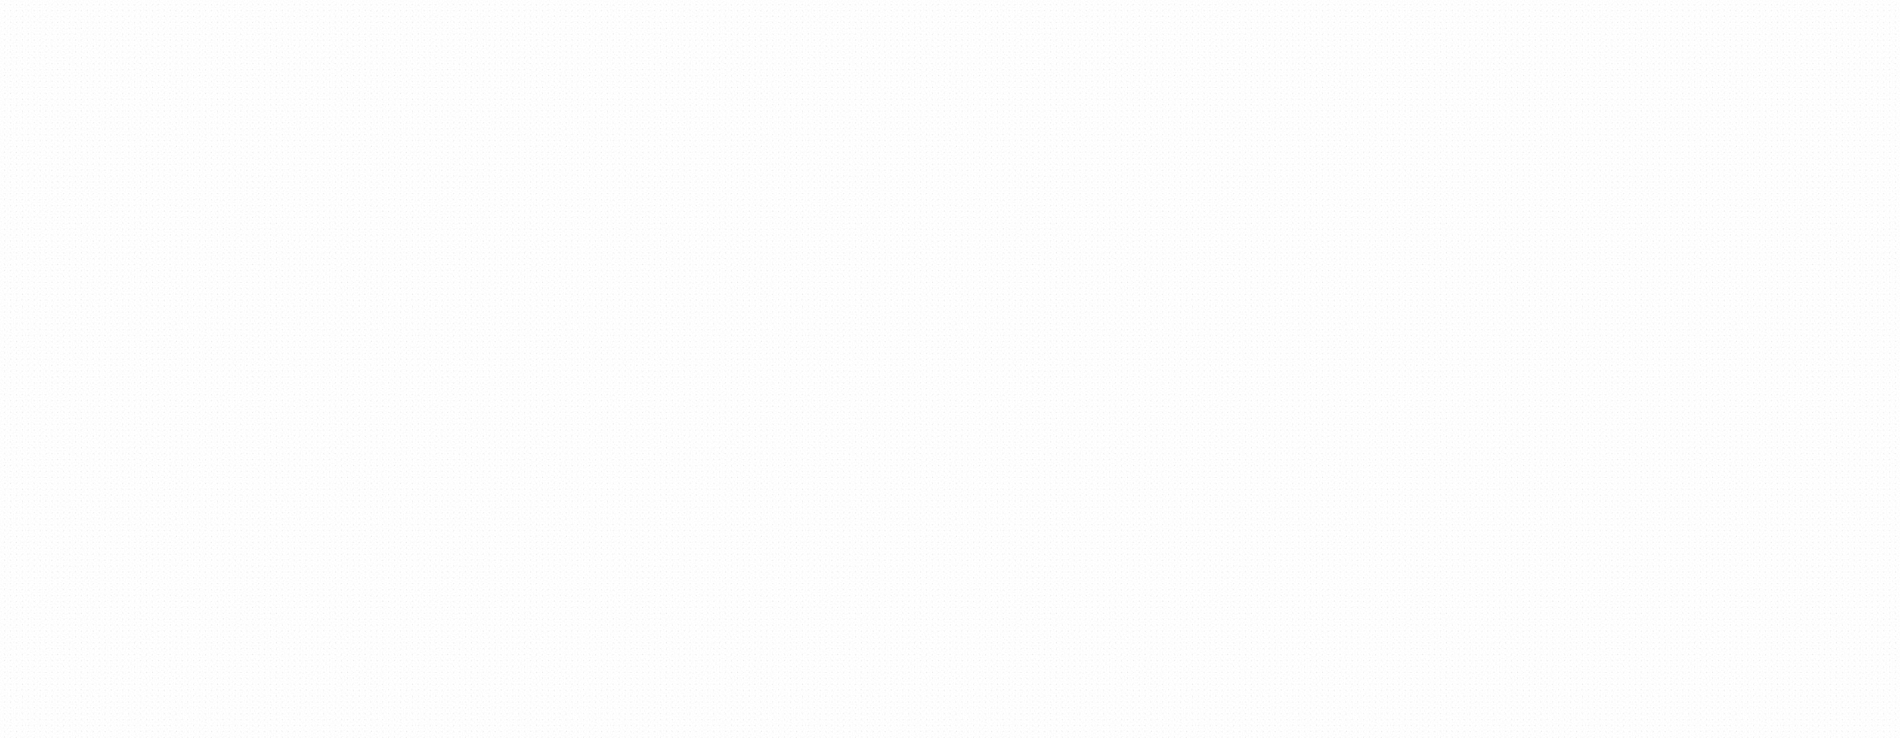
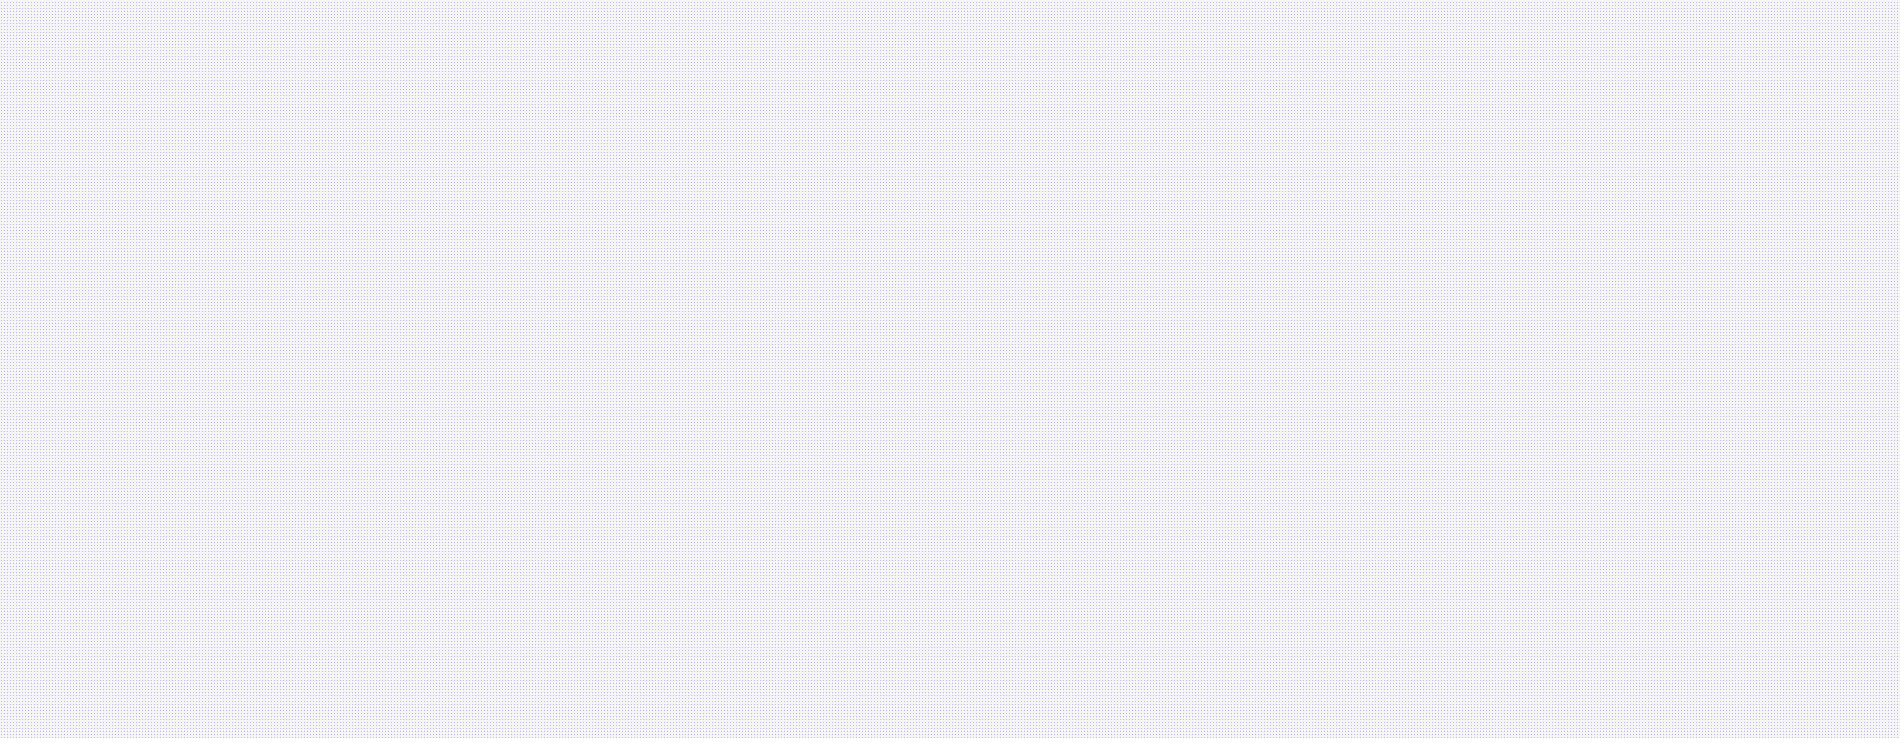
uploadchanges

Changed region(s): [[0.0, 0.0, 1.0, 1.0]]

diff --git a/index.html b/index.html
@@ -224,7 +224,7 @@ function showPage() {
   
        
 	<div id="aboutme">
-		<section class="bg-maze">
+		<section class="bg-dots">
 
 			<div class="container text-center">
 				<br>
@@ -1002,7 +1002,7 @@ function showPage() {
 		</div>
 		 
 		<div  class="bg-gray">
-			<div class="container_gallery">	
+			<section class="container_gallery">	
 				<br><br><br>
 				
 				<div class="container_box">
@@ -1088,7 +1088,7 @@ function showPage() {
 				  <!-- images placed inside block elements to deal with a Firefox rendering bug affecting  scaled flexbox images -->
 				</div>
 				<br><br><br>
-			</div>
+			</section>
         </div>
 	</div>
 

diff --git a/css/agency.css b/css/agency.css
@@ -404,7 +404,7 @@ height:100%;
 
 
 .bg-footer{
-background-image:url("../img/bg-footer.png");
+background-image:url("../img/bg_bdots.png");
 width:100%;
 height:100%;
 color:#fff;
@@ -825,9 +825,10 @@ font-size: 55px;
    
 }
 
-div.container_gallery{ 
-  padding: 20px 20px;
-	width: 100%; 
+.container_gallery{ 
+padding: 20px 20px;
+width:100%;
+height:100%;
   
 }
 div.container_box{ 
@@ -840,6 +841,7 @@ div.container_box{
   flex-flow: row wrap; 
   display: -webkit-box;
   display: flex;
+  width: 100%;
   
 }
 div.gallery_pics { 
